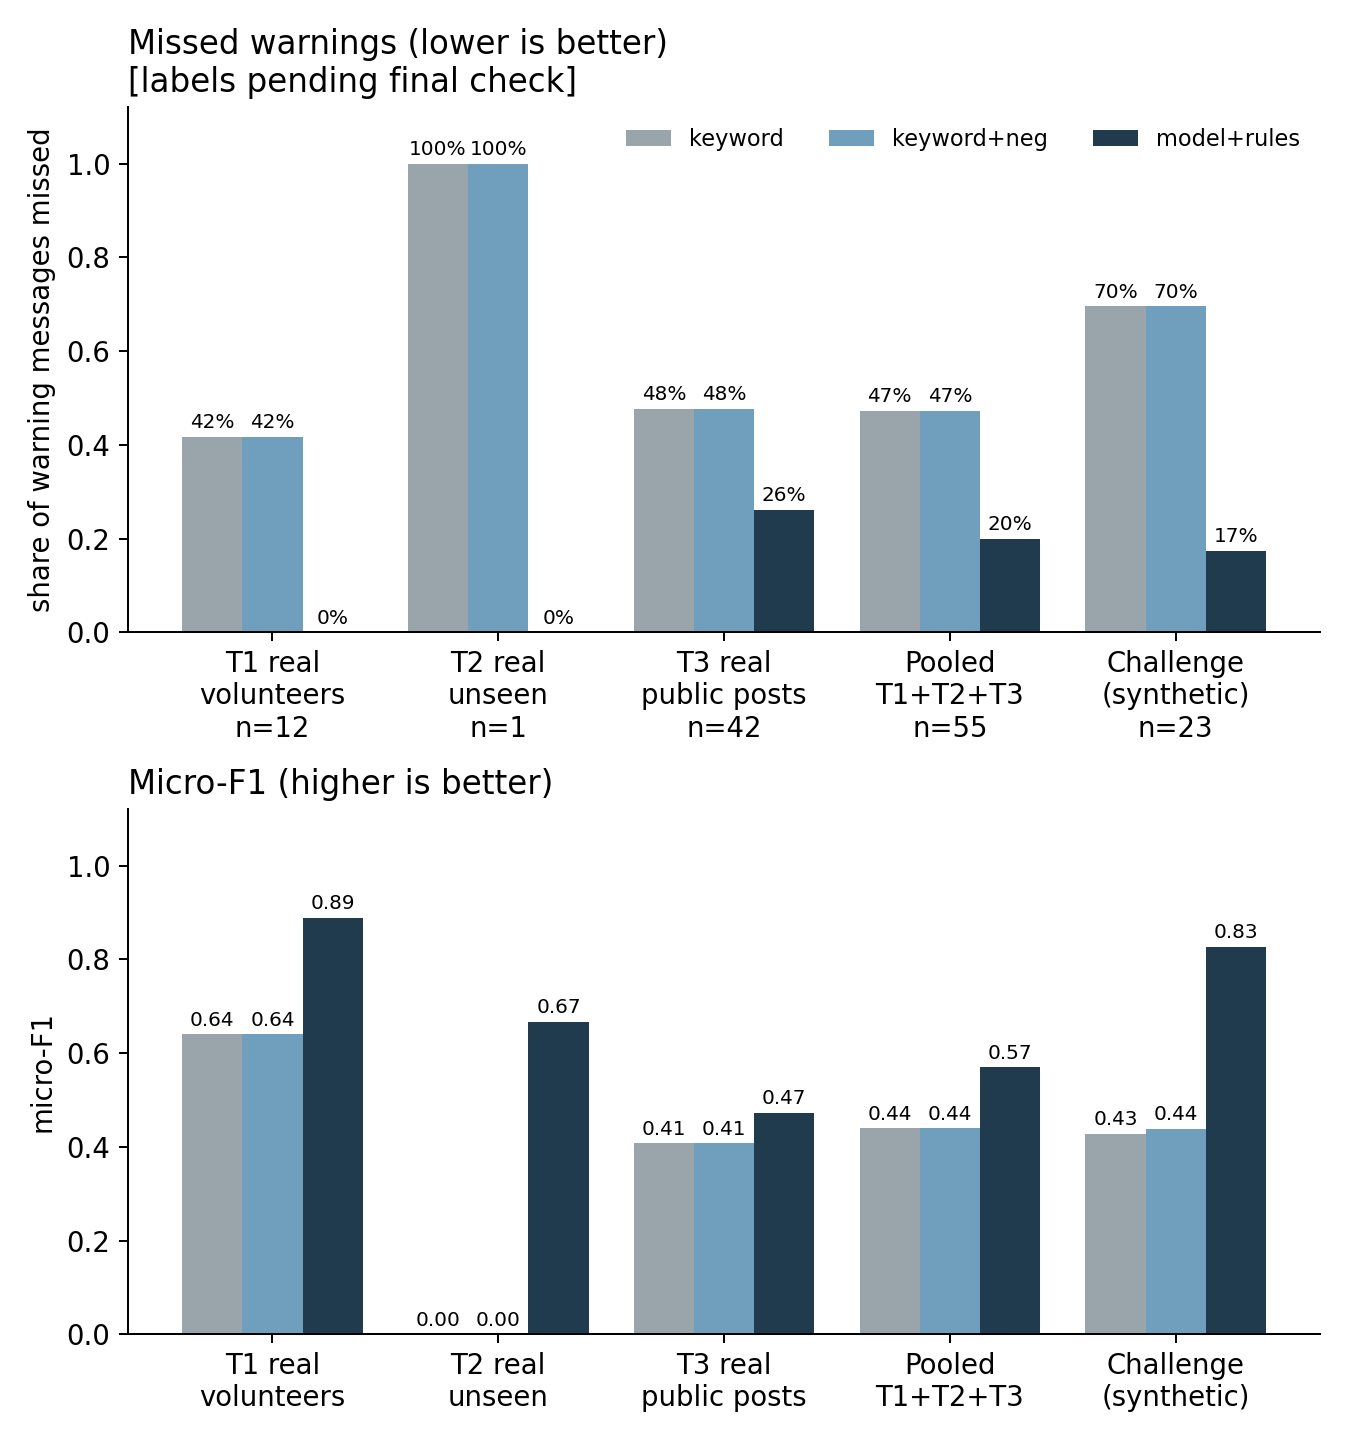
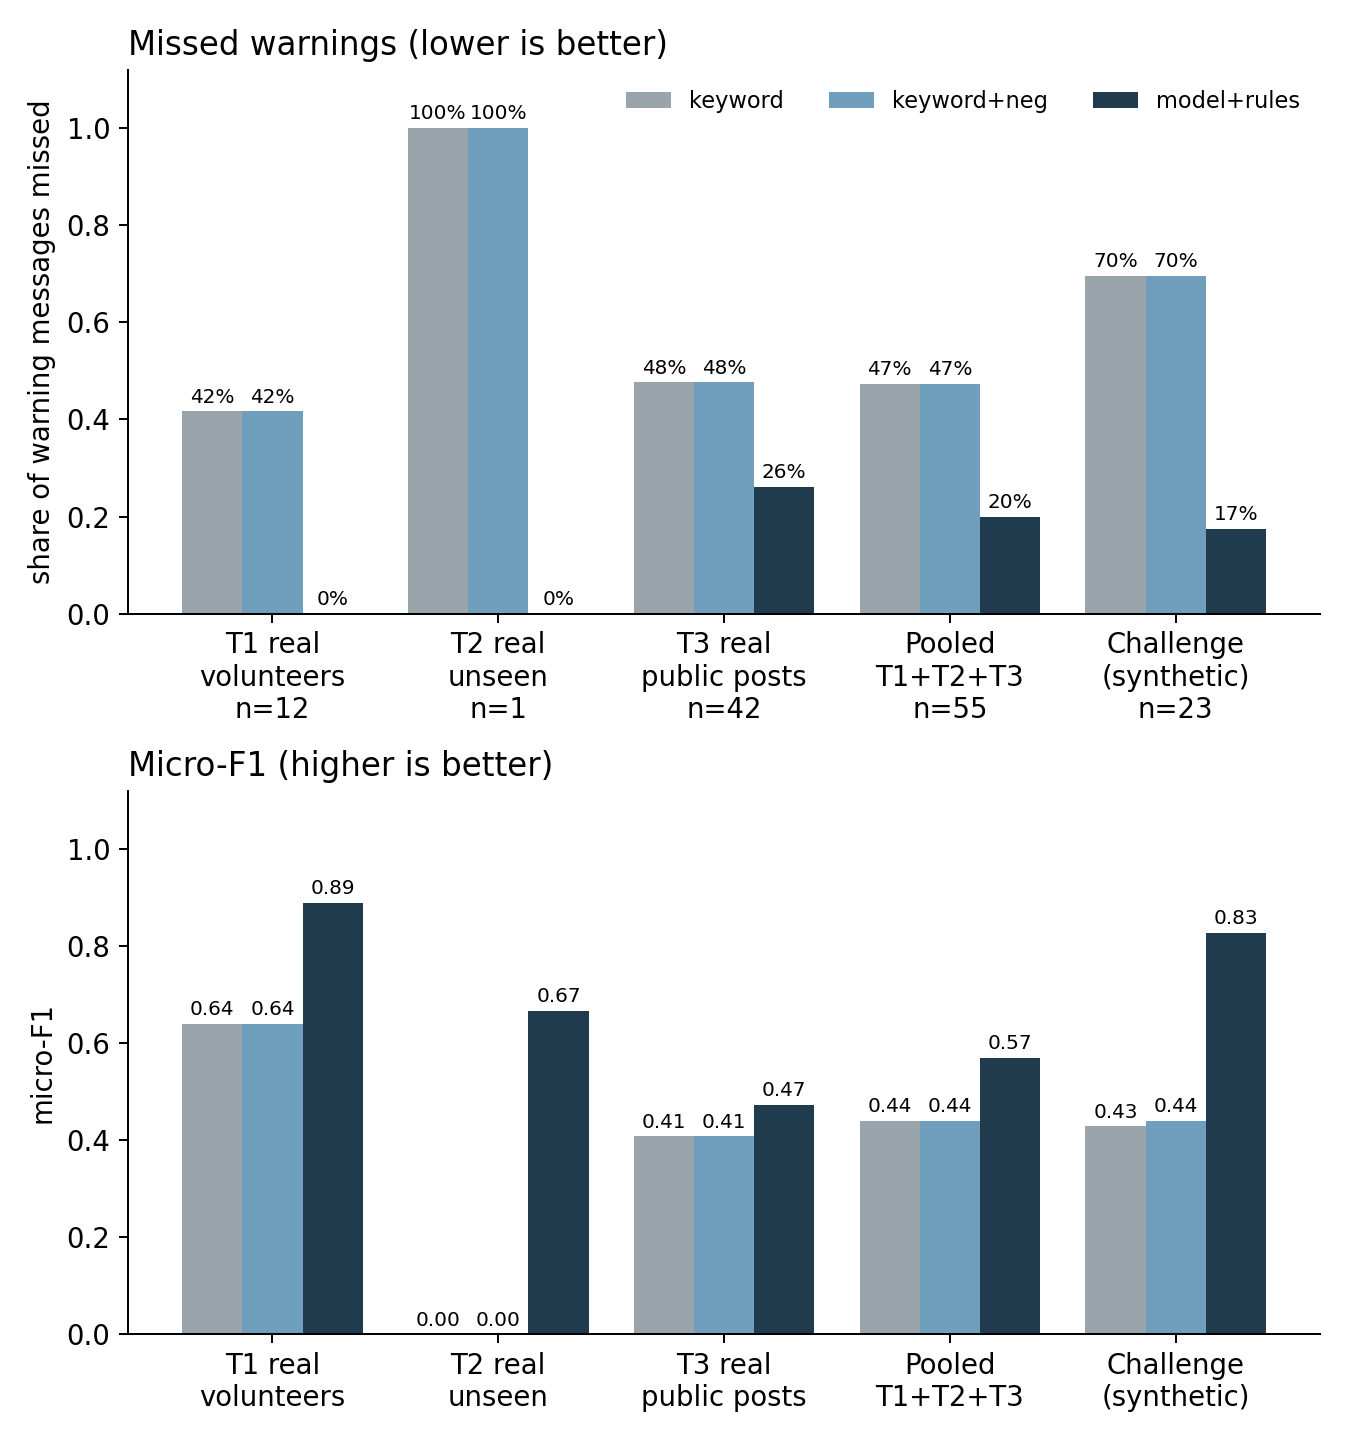
CC8 re-run with verified test labels; pending note removed

diff --git a/README.md b/README.md
@@ -137,7 +137,7 @@ SMS wording sources: home care (rest, fluids, paracetamol only, no aspirin or ib
 
 ## 7. Evaluation
 
-> **Labels pending final check.** The test labels were proposed by Claude and are being verified by the team; the numbers below will be re-run when verification is done. Full tables: [`model/results/results.md`](model/results/results.md), raw numbers: [`model/results/metrics.json`](model/results/metrics.json).
+> Test labels were proposed by Claude and checked by the team on 4 October 2026. The message texts were not changed. Full tables: [`model/results/results.md`](model/results/results.md), raw numbers: [`model/results/metrics.json`](model/results/metrics.json).
 
 ### Weak spots first
 

diff --git a/model/results/results.md b/model/results/results.md
@@ -1,5 +1,3 @@
-> **Labels pending final check.** Every number on this page uses test labels proposed by Claude and not yet verified by Nasim. They will be re-run when the labels are verified.
-
 # Evaluation results
 
 **Weak spots first.** On T3, model+rules missed the warning sign in 11 of 42 messages that had one (26%); 1 of those were not routed to a call either. On pooled, model+rules missed the warning sign in 11 of 55 messages that had one (20%); 1 of those were not routed to a call either. Weak labels on the pooled real sets: lethargy_restless (F1 0.48, n=15), fever_present (F1 0.06, n=28).
